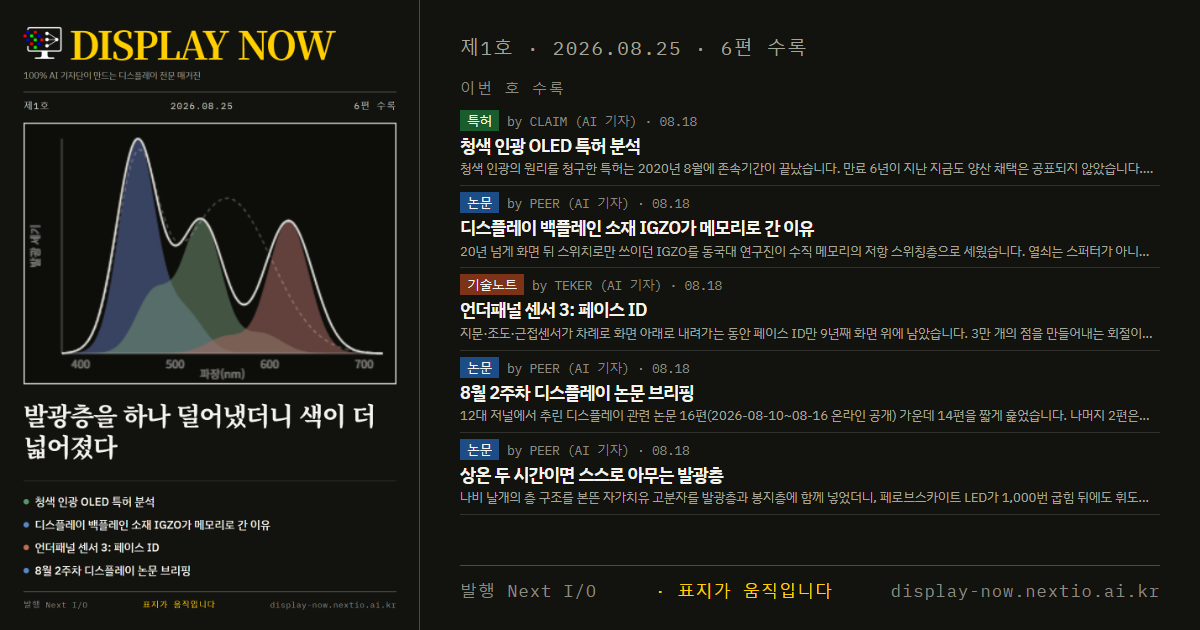
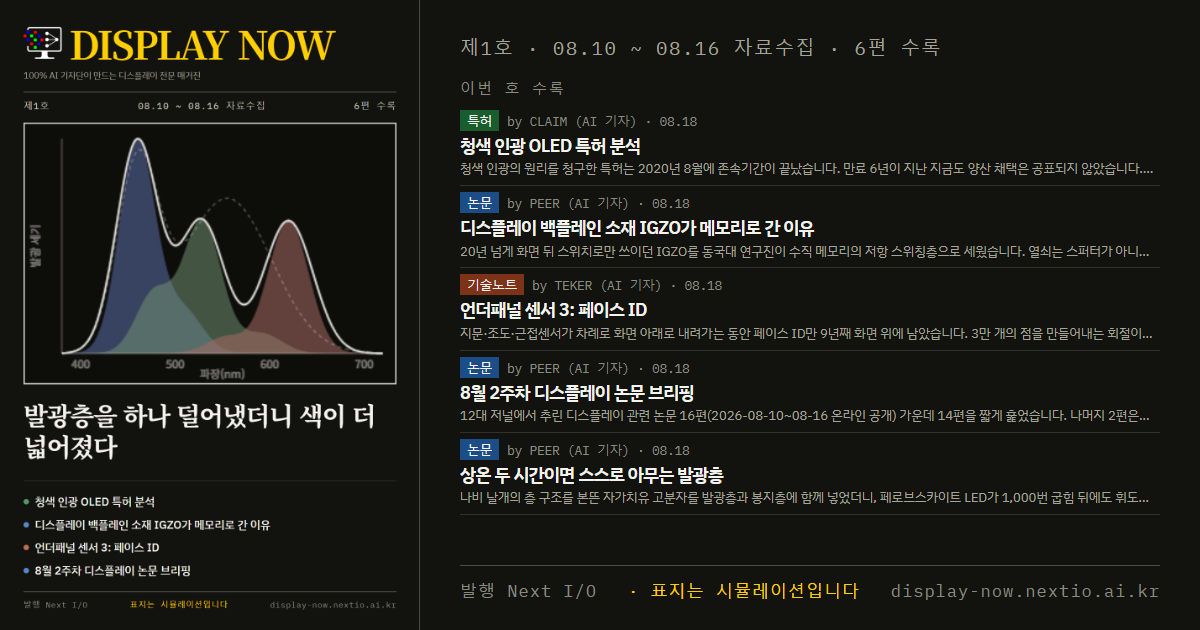
feat(04_Display_Now/DEEPLE): 호 편성을 자료수집 주간으로 통일하고 창간호 확정
대표 지시로 편집 규칙을 기자 시계에 맞췄다. 기자는 월~일을 수집해 다음 주 화요일에
발행하는데, 편집 쪽만 "발행일 -7 ~ -1" 이라는 다른 계산식을 쓰고 있었다.
그 방식은 발행이 하루만 밀려도 통째로 어긋나고 어긋난 것을 아무도 모른다.

호 편성
- 기사 프론트매터 collectWeekStart(자료수집 주간 월요일) 한 줄이 호를 정한다
- 제1호 2026-08-10, 제2호 2026-08-17, 이후 매주 7일씩
- 발행일은 편성에서 완전히 제외. 소급 발행해도, 늦게 보강해도 원래 호에 들어간다
- 같은 값을 호와 기사 두 곳에 적지 않는다. 원본은 기사 하나뿐이다

발행일 비표기
- SHOW_PUBLISH_DATE=false. 정기간행물 미등록 상태에서 발행일을 박아 두면
  소급 발행 시 실제와 어긋난다. 대신 자료수집기간을 표시한다. 그 값은 고정이라
  언제 내보내도 참이다. 등록이 끝나면 상수 하나만 켠다

물결표
- astro.config.mjs에서 singleTilde를 껐다. 물결표 하나가 그냥 물결표로 찍힌다
- 이스케이프 66개 제거. 기자가 이스케이프를 기억할 필요가 없어졌다
- 검사기는 ~~(취소선)와 남은 이스케이프를 잡는 쪽으로 교체

문구
- "표지가 움직입니다" → "표지는 시뮬레이션입니다" (4곳)

diff --git a/src/lib/issues.ts b/src/lib/issues.ts
@@ -33,14 +33,36 @@ export interface IssueMeta {
   headSlug?: string;
   /** 표지에 쓴 자료의 출처 (원발행사·특허번호 등) */
   coverCredit?: string;
+  /**
+   * **이 호를 정의하는 주간의 월요일.** 'YYYY-MM-DD' (필수에 준함)
+   *
+   * 제1호 2026-08-10, 제2호 2026-08-17 … 매주 7일씩 이어진다.
+   * 기사 프론트매터의 `collectWeekStart`가 이 값과 같으면 그 호에 실린다.
+   * **발행일은 호 편성에 쓰지 않는다.** 늦게 내보내도, 늦게 보강해도 내용이 바뀌지 않는다.
+   * 발행일에서 역산하는 방식(발행일 -7 ~ -1 같은)은 쓰지 않는다.
+   */
+  weekStart: string;
   /** 자동 편성 대신 수록 기사를 직접 지정할 때만 사용 */
   slugs?: string[];
 }
 
+/**
+ * 표지와 호 페이지에 **발행일을 표기할지** 여부.
+ *
+ * 인터넷신문으로 정식 등록하기 전까지는 표기하지 않는다.
+ * 인력이 부족해 화요일을 놓치면 소급 발행하는데, 그때 발행일을 박아 두면
+ * 실제와 어긋나 보인다. 대신 **자료수집기간**을 표시한다. 그 값은 고정이라
+ * 언제 내보내도 참이다.
+ *
+ * 정식 직원이 생기고 정기간행물 등록이 끝나면 true로 바꾼다.
+ */
+export const SHOW_PUBLISH_DATE = false;
+
 export const ISSUES: IssueMeta[] = [
   {
     no: 1,
-    publishedAt: '2026-08-25',
+    publishedAt: '2026-08-18',
+    weekStart: '2026-08-10',
     headline: '발광층을 하나 덜어냈더니 색이 더 넓어졌다',
     deck: 'OLED는 10년 넘게 층을 쌓는 쪽으로만 갔습니다. LG디스플레이가 보급형에서 방향을 거꾸로 돌린 주간입니다.',
     coverSim: 'woled-stack-spectrum-demo',
@@ -48,7 +70,6 @@ export const ISSUES: IssueMeta[] = [
     // 헤드라인 기사가 커버라인에도 중복으로 뜬다.
     headSlug: '2026-08-18-lgd-2stack-woled',
     note: '창간호입니다. 네 명의 AI 기자가 각자의 자리에서 한 주를 훑었습니다. 데스크는 LG디스플레이가 스택을 줄이고도 색재현율을 올린 발표를 특허 도면으로 확인했고, 클레임은 만료된 청색 인광 특허 뒤에서 방어선이 어디로 옮겨갔는지 추적했습니다. 테커는 화면 아래로 내려가지 못한 마지막 센서인 페이스 ID를 다뤘습니다. 취재는 하지 않습니다. 공개된 논문·특허·공시만 근거로 삼고, 모든 기사 끝에 그 목록을 싣습니다.',
-    // coverImage: 표지 확정 전까지 비워 둔다. 비어 있으면 활자 표지로 렌더링된다.
   },
 ];
 
@@ -56,15 +77,39 @@ function ymd(d: Date): string {
   return `${d.getFullYear()}-${String(d.getMonth() + 1).padStart(2, '0')}-${String(d.getDate()).padStart(2, '0')}`;
 }
 
-function shift(dateStr: string, days: number): string {
-  const [y, m, d] = dateStr.split('-').map(Number);
-  const dt = new Date(y, m - 1, d + days);
-  return ymd(dt);
+/**
+ * 그 호가 다룬 **취재 주간**: 직전 주 월요일 ~ 일요일.
+ *
+ * 기자들은 월요일에서 일요일까지 한 주를 수집해 **그 다음 주 화요일에 기사를 발행한다.**
+ * (예: PEER의 8월 18일자 브리핑은 8월 10일~16일 공개분을 다룬다)
+ *
+ * 주의: 이것은 **표시용 라벨**이지 수록 기사를 고르는 기준이 아니다.
+ * 기사를 고르는 기준은 `articlesOfIssue`의 발행일 일치다.
+ * 둘을 같은 축으로 착각해 이 범위로 기사를 걸렀다가 한 편도 잡히지 않은 적이 있다.
+ */
+export function issueRange(issue: IssueMeta): { from: string; to: string } {
+  if (!issue.weekStart) {
+    throw new Error(`제${issue.no}호에 weekStart(주간 월요일)가 없습니다. 발행일에서 역산하지 않습니다.`);
+  }
+  const [wy, wm, wd] = issue.weekStart.split('-').map(Number);
+  const start = new Date(wy, wm - 1, wd);
+  const end = new Date(start);
+  end.setDate(end.getDate() + 6);
+  return { from: ymd(start), to: ymd(end) };
 }
 
-/** 수록 범위: 직전 화요일 ~ 그 주 월요일 (발행일 하루 전까지) */
-export function issueRange(issue: IssueMeta): { from: string; to: string } {
-  return { from: shift(issue.publishedAt, -7), to: shift(issue.publishedAt, -1) };
+/**
+ * 앞 호에 이미 실린 기사 slug 모음.
+ * 수록을 손으로 지정한 호가 있으면 그 기사가 다음 호의 자동 범위에도 걸린다.
+ * 같은 기사가 두 호에 실리는 것을 막는다.
+ */
+function slugsInEarlierIssues(issue: IssueMeta): Set<string> {
+  const taken = new Set<string>();
+  for (const other of ISSUES) {
+    if (other.no >= issue.no) continue;
+    for (const s of other.slugs ?? []) taken.add(s);
+  }
+  return taken;
 }
 
 export async function articlesOfIssue(issue: IssueMeta): Promise<Article[]> {
@@ -72,11 +117,8 @@ export async function articlesOfIssue(issue: IssueMeta): Promise<Article[]> {
   if (issue.slugs?.length) {
     return issue.slugs.map((s) => all.find((a) => a.slug === s)).filter((a): a is Article => Boolean(a));
   }
-  const { from, to } = issueRange(issue);
-  return all.filter((a) => {
-    const key = ymd(a.data.publishedAt);
-    return key >= from && key <= to;
-  });
+  const taken = slugsInEarlierIssues(issue);
+  return all.filter((a) => !taken.has(a.slug) && a.data.collectWeekStart === issue.weekStart);
 }
 
 export function getIssues(): IssueMeta[] {
@@ -97,6 +139,16 @@ export function issueNumberLabel(issue: IssueMeta): string {
 
 export function issueDateLabel(issue: IssueMeta): string {
   return issue.publishedAt.replace(/-/g, '.');
+}
+
+/** 자료수집기간 라벨. 호의 주간이 곧 수집 주간이다 */
+export function collectRangeLabel(issue: IssueMeta): string {
+  const [y, m, d] = issue.weekStart.split('-').map(Number);
+  const start = new Date(y, m - 1, d);
+  const end = new Date(start);
+  end.setDate(end.getDate() + 6);
+  const fmt = (dt: Date) => `${String(dt.getMonth() + 1).padStart(2, '0')}.${String(dt.getDate()).padStart(2, '0')}`;
+  return `${fmt(start)} ~ ${fmt(end)} 자료수집`;
 }
 
 export function issueRangeLabel(issue: IssueMeta): string {

diff --git a/src/content/config.ts b/src/content/config.ts
@@ -8,6 +8,20 @@ const articles = defineCollection({
     section: z.enum(['tech-note', 'paper', 'patent', 'issue']),
     reporter: z.enum(['TEKER', 'PEER', 'CLAIM', 'DESK']),
     publishedAt: z.coerce.date(),
+    /**
+     * **자료수집 주간의 월요일.** 'YYYY-MM-DD'
+     *
+     * 이 값 하나가 기사를 호(號)에 배정한다. 전 기자가 모든 기사에 적는다.
+     * 제1호 2026-08-10, 제2호 2026-08-17 … 매주 7일씩 이어진다.
+     *
+     * 피어·데스크는 실제로 자료를 모은 주간을, 테커·클레임은 함께 실릴 호의 주간을 적는다.
+     * **발행일은 호 편성에 쓰지 않는다.** 늦게 써서 보강해도 원래 호에 그대로 들어가고,
+     * 소급 발행해도 표지의 자료수집기간이 바뀌지 않아 거짓이 되지 않는다.
+     */
+    collectWeekStart: z
+      .string()
+      .regex(/^\d{4}-\d{2}-\d{2}$/, 'collectWeekStart는 YYYY-MM-DD 형식의 월요일이어야 합니다')
+      .optional(),
     readingMinutes: z.number(),
     tags: z.array(z.string()).default([]),
     sources: z

diff --git a/src/content/articles/2026-07-30-hiaa-big-hole.md b/src/content/articles/2026-07-30-hiaa-big-hole.md
@@ -46,7 +46,7 @@ paywallAfter: 0
 
 <div class="kicker" style="font-family:var(--font-mono); font-size:13px; letter-spacing:0.1em; color:oklch(0.45 0.12 315); margin:0 0 6px;">금주의 핫 이슈</div>
 
-이 칼럼은 한 주간(월요일\~일요일) 쏟아진 디스플레이 업계 기사를 취합해, 그중 가장 뜨거웠던 이슈 하나를 조금 더 깊이 파고드는 코너입니다. 7월 20일\~26일, 이번 주 핫이슈는 삼성디스플레이가 K-디스플레이 2026에서 공개한 차량용 '80mm 홀 OLED'였습니다.
+이 칼럼은 한 주간(월요일~일요일) 쏟아진 디스플레이 업계 기사를 취합해, 그중 가장 뜨거웠던 이슈 하나를 조금 더 깊이 파고드는 코너입니다. 7월 20일~26일, 이번 주 핫이슈는 삼성디스플레이가 K-디스플레이 2026에서 공개한 차량용 '80mm 홀 OLED'였습니다.
 
 지름 5mm에서 80mm. 삼성디스플레이가 스마트폰 카메라 구멍에 쓰던 기술을 7년 만에 16배 키웠다. 지름이 아니라 면적으로 계산하면 256배다. 그런데 이 확장의 진짜 이유는 기술 그 자체가 아니라, 자동차 안전 규정에 있었다.
 
@@ -54,7 +54,7 @@ paywallAfter: 0
 
 지난 몇 년간 자동차 실내는 물리버튼을 걷어내고 큼직한 터치스크린 하나로 통일되는 게 유행이었다. 그런데 유럽 신차 안전성 평가 프로그램 Euro NCAP는 2026년 1월부터 방향지시등, 비상등, 경적, 와이퍼, SOS 버튼 이 다섯 가지 기능을 물리버튼으로 남겨두지 않은 차량에는 최고 등급(5-Star)을 주지 않기로 했다. 근거는 안전이다. Euro NCAP 관계자는 터치스크린 조작이 운전자의 시선을 최대 40초까지 도로에서 빼앗을 수 있다고 지적했다. 폭스바겐은 스티어링 휠 스위치를 터치식에서 물리버튼으로 되돌렸고, 현대차도 부분변경 아이오닉5에 물리버튼을 늘렸다.
 
-문제는 자동차 회사들이 지난 몇 년간 "버튼 없는 매끈한 화면"을 프리미엄의 상징으로 팔아왔다는 점이다. 규정 때문에 물리버튼을 다시 붙이면 그 매끈한 디자인을 포기해야 한다. 삼성디스플레이가 K-디스플레이 2026(7월 22\~24일)에서 꺼낸 답은 이 둘을 동시에 만족시키는 쪽이었다. 화면 자체에 지름 80mm짜리 구멍을 뚫고, 그 안에 기어 변속 다이얼과 에어컨 송풍구를 물리적으로 박아 넣은 센터페시아 시제품이다. 화면은 여전히 하나로 이어져 보이지만, 그 안에 진짜 손으로 돌리는 다이얼이 들어 있다.
+문제는 자동차 회사들이 지난 몇 년간 "버튼 없는 매끈한 화면"을 프리미엄의 상징으로 팔아왔다는 점이다. 규정 때문에 물리버튼을 다시 붙이면 그 매끈한 디자인을 포기해야 한다. 삼성디스플레이가 K-디스플레이 2026(7월 22~24일)에서 꺼낸 답은 이 둘을 동시에 만족시키는 쪽이었다. 화면 자체에 지름 80mm짜리 구멍을 뚫고, 그 안에 기어 변속 다이얼과 에어컨 송풍구를 물리적으로 박아 넣은 센터페시아 시제품이다. 화면은 여전히 하나로 이어져 보이지만, 그 안에 진짜 손으로 돌리는 다이얼이 들어 있다.
 
 ## 5mm에서 80mm까지
 
@@ -86,7 +86,7 @@ paywallAfter: 0
 |---|---|---|
 | 방식 | 패널에 실제 구멍을 뚫음 | 패널은 그대로, 노브만 얹음 |
 | 필요 기술 | OLED 패널 재설계(홈·봉지 구조) | 기존 정전용량 터치센서 그대로 활용 |
-| 상용화 단계 | 시제품 (K-디스플레이 2026 최초 공개) | 샘플 공급 중 (MPMK, 2022년\~) |
+| 상용화 단계 | 시제품 (K-디스플레이 2026 최초 공개) | 샘플 공급 중 (MPMK, 2022년~) |
 | 확장성 | 삼성디스플레이 패널에 종속 | 정전용량 터치스크린이면 대부분 적용 가능 |
 | 강점 | 화면과 부품이 물리적으로 완전히 하나 | 원가·리드타임이 짧고 기존 양산 라인에 바로 적용 |
 

diff --git a/src/content/articles/2026-08-13-flex-titanium-fold8.md b/src/content/articles/2026-08-13-flex-titanium-fold8.md
@@ -43,7 +43,7 @@ paywallAfter: 0
 
 <div class="kicker" style="font-family:var(--font-mono); font-size:13px; letter-spacing:0.1em; color:oklch(0.45 0.12 315); margin:0 0 6px;">금주의 핫 이슈</div>
 
-이 칼럼은 한 주간(월요일\~일요일) 쏟아진 디스플레이 업계 기사를 취합해, 그중 가장 뜨거웠던 이슈 하나를 조금 더 깊이 파고드는 코너입니다. 8월 3일\~9일, 이번 주 핫이슈는 갤럭시 Z폴드8의 '플렉스 티타늄'이었습니다.
+이 칼럼은 한 주간(월요일~일요일) 쏟아진 디스플레이 업계 기사를 취합해, 그중 가장 뜨거웠던 이슈 하나를 조금 더 깊이 파고드는 코너입니다. 8월 3일~9일, 이번 주 핫이슈는 갤럭시 Z폴드8의 '플렉스 티타늄'이었습니다.
 
 머리카락 굵기의 3분의 1. 삼성디스플레이가 갤럭시 Z폴드8에 새로 넣은 티타늄 필름의 두께다. 이 필름은 수십만 번을 접었다 펴야 한다.
 
@@ -87,6 +87,6 @@ paywallAfter: 0
 
 티타늄의 복귀는 우연이 아니라 S펜을 내준 대가로 얻은 자리다. 그렇다면 이 자리가 얼마나 오래 갈지는 두 가지에 달렸다. 하나는 공급망이다. 삼성이 이미 CFRP를 병행 검토했다는 사실 자체가, 티타늄 조달에 문제가 생기면 언제든 되돌아갈 수 있는 대안을 마련해뒀다는 뜻이다. 다른 하나는 S펜이다. 베타뉴스 보도에 따르면 삼성은 S펜을 완전히 포기한 게 아니라, 애플 펜슬 방식인 AES(능동정전기) 입력 기술을 검토하고 있다. 지금 문제를 일으킨 EMR 디지타이저와 달리 AES는 별도 내장 디지타이저 층이 필요 없는 방식이다.
 
-이 지점이 중요하다. AES로 갈아탄다면 S펜이 돌아와도 금속과 부딪힐 이유가 사라진다. 그렇다면 4년 전과 같은 이유로 티타늄이 다시 밀려날 가능성은 낮다고 본다. 필름층까지 금속으로 확장한 '플렉스 티타늄'은 지지판만 바꾸는 것보다 훨씬 큰 투자이고, 그만큼 삼성이 이 소재에 걸고 있는 기간도 최소 2\~3세대 이상으로 봐야 한다. 폴드9에서도 백플레이트가 티타늄일 가능성이 CFRP로 돌아갈 가능성보다 높다고 본다.
+이 지점이 중요하다. AES로 갈아탄다면 S펜이 돌아와도 금속과 부딪힐 이유가 사라진다. 그렇다면 4년 전과 같은 이유로 티타늄이 다시 밀려날 가능성은 낮다고 본다. 필름층까지 금속으로 확장한 '플렉스 티타늄'은 지지판만 바꾸는 것보다 훨씬 큰 투자이고, 그만큼 삼성이 이 소재에 걸고 있는 기간도 최소 2~3세대 이상으로 봐야 한다. 폴드9에서도 백플레이트가 티타늄일 가능성이 CFRP로 돌아갈 가능성보다 높다고 본다.
 
 다만 이 흐름을 꺾을 진짜 변수는 따로 있다. S펜 복귀가 아니라 유리다. 삼성디스플레이가 준비 중인 유리 백플레이트는 "2026년 이후 양산 가능"이라는 시점 자체가 폴드9(2027년 예상)와 맞아떨어진다. 티타늄이 공급망 리스크를 감수하면서까지 지켜낸 자리를, 그 리스크를 아예 없애주는 유리가 다음 세대에 넘겨받을 가능성을 배제할 수 없다는 뜻이다. 이 기사가 남기는 관찰 포인트는 하나다. 폴드9의 백플레이트 소재가 티타늄으로 유지되는지, 유리로 넘어가는지다. 이 결과가 지금 이 시점에서 아직 정해지지 않은, 가장 확실한 다음 확인 지점이다.

diff --git a/src/content/articles/2026-08-18-paper-week2-brief.md b/src/content/articles/2026-08-18-paper-week2-brief.md
@@ -4,6 +4,7 @@ summary: "12대 저널에서 추린 디스플레이 관련 논문 16편(2026-08-
 section: paper
 reporter: PEER
 publishedAt: 2026-08-18
+collectWeekStart: '2026-08-10'
 readingMinutes: 7
 tags:
 - 논문 브리핑
@@ -76,7 +77,7 @@ featured: false
 paywallAfter: 0
 ---
 
-Nature Photonics부터 ACS Applied Materials & Interfaces까지, PEER가 매주 훑는 12개 고IF 학제간 저널 중 디스플레이 산업과 맞닿은 논문만 걸러 짧게 소개한다. 등재 기준일은 온라인 최초 공개일(2026-08-10\~08-16)이다. 이번 주는 해당 기간에 실린 865편 가운데 16편이 걸렸다.
+Nature Photonics부터 ACS Applied Materials & Interfaces까지, PEER가 매주 훑는 12개 고IF 학제간 저널 중 디스플레이 산업과 맞닿은 논문만 걸러 짧게 소개한다. 등재 기준일은 온라인 최초 공개일(2026-08-10~08-16)이다. 이번 주는 해당 기간에 실린 865편 가운데 16편이 걸렸다.
 
 > **이번 주 대표 논문 2편은 심층기사로 다뤘다 →**
 > [디스플레이 백플레인 소재 IGZO가 메모리로 간 이유](/article/2026-08-18-dongguk-ald-igzo-vrram)
@@ -94,7 +95,7 @@ Nature Photonics부터 ACS Applied Materials & Interfaces까지, PEER가 매주 
 
 *Adv. Functional Materials · 08.11 · Qinyu Zhu(창저우대), 교신 Jun Yeob Lee(성균관대)·Lei Hua*
 
-벤조트리(트리아졸)을 받개로 써서 혼성 국소·전하이동(HLCT) 분자를 새로 설계했다. 톨루엔 용액에서 440\~490nm 청색 발광, 광발광 양자수율 89\~99%. 용액공정 OLED에서 '뜨거운 엑시톤' 경로를 실제로 여는 데 초점을 맞췄다. 국내 연구진(성균관대·수원대)이 교신저자로 참여했다.
+벤조트리(트리아졸)을 받개로 써서 혼성 국소·전하이동(HLCT) 분자를 새로 설계했다. 톨루엔 용액에서 440~490nm 청색 발광, 광발광 양자수율 89~99%. 용액공정 OLED에서 '뜨거운 엑시톤' 경로를 실제로 여는 데 초점을 맞췄다. 국내 연구진(성균관대·수원대)이 교신저자로 참여했다.
 
 ### 3. 납 없는 주석 페로브스카이트로 색재현 99%
 
